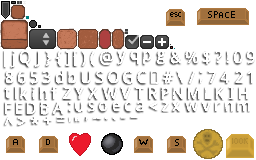
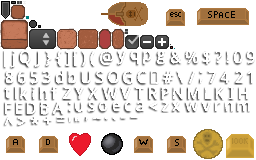
ai has multiple targets and doesnt seem to crash

Changed region(s): [[0.375, 0.0, 0.5938, 0.1875]]

diff --git a/core/src/com/mygdx/game/Entitys/NPCShip.java b/core/src/com/mygdx/game/Entitys/NPCShip.java
@@ -9,10 +9,12 @@ import com.badlogic.gdx.utils.JsonValue;
 import com.mygdx.game.AI.EnemyState;
 import com.mygdx.game.Components.*;
 import com.mygdx.game.Managers.GameManager;
+import com.mygdx.game.Physics.CollisionCallBack;
+import com.mygdx.game.Physics.CollisionInfo;
 import com.mygdx.utils.QueueFIFO;
 import com.mygdx.utils.Utilities;
 
-public class NPCShip extends Ship {
+public class NPCShip extends Ship implements CollisionCallBack {
     public StateMachine<NPCShip, EnemyState> stateMachine;
     private static JsonValue AISettings;
     private final QueueFIFO<Vector2> path;
@@ -38,6 +40,7 @@ public class NPCShip extends Ship {
 
 
         RigidBody rb = getComponent(RigidBody.class);
+        // rb.setCallback(this);
 
         JsonValue starting = GameManager.getSettings().get("starting");
 
@@ -55,23 +58,7 @@ public class NPCShip extends Ship {
         super.update();
         stateMachine.update();
 
-        // follows path
-        /*if (!path.isEmpty()) {
-            Vector2 goTo = Utilities.tilesToDistance(path.peek()); // goto offset in world space
-            goTo.add(getPosition()); // translated to player pos
-            float radius = GameManager.getSettings().get("starting").getFloat("attackRange_tiles") + 0.5f; // in tile space
-            // radius = 1;
-            radius = Utilities.tilesToDistance(radius); // in world space
-            boolean proximity = Utilities.checkProximity(goTo, getPosition(), radius);
-
-            // has reached target point so remove point
-            if (proximity) {
-                path.pop();
-            } else {
-                RigidBody rb = getComponent(RigidBody.class);
-                rb.setVelocity(path.peek().cpy().scl(GameManager.getSettings().get("starting").getFloat("playerSpeed")));
-            }
-        }*/
+        // System.out.println(getComponent(Pirate.class).targetCount());
     }
 
     public void goToTarget() {
@@ -104,5 +91,56 @@ public class NPCShip extends Ship {
 
     public void wander() {
 
+    }
+
+    @Override
+    public void BeginContact(CollisionInfo info) {
+
+    }
+
+    @Override
+    public void EndContact(CollisionInfo info) {
+
+    }
+
+    /**
+     * if the agro fixture hit a ship set it as the target
+     *
+     * @param info the collision info
+     */
+    @Override
+    public void EnterTrigger(CollisionInfo info) {
+        if(!(info.a instanceof Ship)) {
+            return;
+        }
+        Ship other = (Ship) info.a;
+        if (other.getComponent(Pirate.class).getFaction().getName() == getComponent(Pirate.class).getFaction().getName()) {
+           // is the same faction
+           return;
+        }
+        // add the new collision as a new target
+        Pirate pirate = getComponent(Pirate.class);
+        pirate.addTarget(other);
+    }
+
+    /**
+     * Will set the target to null
+     *
+     * @param info collision info
+     */
+    @Override
+    public void ExitTrigger(CollisionInfo info) {
+        if(!(info.a instanceof Ship)) {
+            return;
+        }
+        Pirate pirate = getComponent(Pirate.class);
+        Ship o = (Ship) info.a;
+        // remove the object from the targets list
+        for (Ship targ : pirate.getTargets()) {
+            if(targ == o) {
+                pirate.getTargets().remove(targ);
+                break;
+            }
+        }
     }
 }

diff --git a/core/src/com/mygdx/game/Components/Pirate.java b/core/src/com/mygdx/game/Components/Pirate.java
@@ -5,6 +5,7 @@ import com.badlogic.gdx.utils.JsonValue;
 import com.mygdx.game.Entitys.Ship;
 import com.mygdx.game.Faction;
 import com.mygdx.game.Managers.GameManager;
+import com.mygdx.utils.QueueFIFO;
 
 public class Pirate extends Component {
     private int factionId;
@@ -17,11 +18,11 @@ public class Pirate extends Component {
     /**
      * The enemy that is being targeted not used for player
      */
-    private Ship target;
+    private QueueFIFO<Ship> targets;
 
     public Pirate() {
         super();
-        target = null;
+        targets = new QueueFIFO<>();
         type = ComponentType.Pirate;
         plunder = GameManager.getSettings().get("starting").getInt("plunder");
         factionId = 1;
@@ -32,8 +33,8 @@ public class Pirate extends Component {
         ammo = starting.getInt("ammo");
     }
 
-    public void setTarget(Ship target) {
-        this.target = target;
+    public void addTarget(Ship target) {
+        targets.add(target);
     }
 
     public int getPlunder() {
@@ -81,10 +82,10 @@ public class Pirate extends Component {
      * target will be null if not in agro range
      */
     public boolean canAttack() {
-        if (target != null) {
+        if (targets.peek() != null) {
             final Ship p = (Ship) parent;
             final Vector2 pos = p.getPosition();
-            final float dst = pos.dst(target.getPosition());
+            final float dst = pos.dst(targets.peek().getPosition());
             // withing attack range
             return dst < Ship.getAttackRange();
         }
@@ -96,18 +97,21 @@ public class Pirate extends Component {
      * target will be null if not in agro range
      */
     public boolean isAgro() {
-        if (target != null) {
+        if (targets.peek() != null) {
             final Ship p = (Ship) parent;
             final Vector2 pos = p.getPosition();
-            final float dst = pos.dst(target.getPosition());
-            // out of attack range
+            final float dst = pos.dst(targets.peek().getPosition());
+            // out of attack range but in agro range
             return dst >= Ship.getAttackRange();
         }
         return false;
     }
 
     public Ship getTarget() {
-        return target;
+        return targets.peek();
+    }
+    public void removeTarget() {
+        targets.pop();
     }
 
     public boolean isAlive() {
@@ -125,5 +129,13 @@ public class Pirate extends Component {
 
     public int getAmmo() {
         return ammo;
+    }
+
+    public int targetCount() {
+        return targets.size();
+    }
+
+    public QueueFIFO<Ship> getTargets() {
+        return targets;
     }
 }

diff --git a/core/src/com/mygdx/game/Entitys/Ship.java b/core/src/com/mygdx/game/Entitys/Ship.java
@@ -44,10 +44,11 @@ public class Ship extends Entity implements CollisionCallBack {
         t.setPosition(800, 800);
         Renderable r = new Renderable(3, "white-up", RenderLayer.Transparent);
         RigidBody rb = new RigidBody(PhysicsBodyType.Dynamic, r, t);
+        rb.setCallback(this);
 
         Pirate p = new Pirate();
 
-        rb.setCallback(this);
+        // rb.setCallback(this);
 
         addComponents(t, r, rb, p);
     }
@@ -118,7 +119,6 @@ public class Ship extends Entity implements CollisionCallBack {
         return getComponent(Transform.class).getPosition().cpy();
     }
 
-
     @Override
     public void BeginContact(CollisionInfo info) {
 
@@ -129,42 +129,17 @@ public class Ship extends Entity implements CollisionCallBack {
 
     }
 
-    /**
-     * if the agro fixture hit a ship set it as the target
-     *
-     * @param info the collision info
-     */
     @Override
     public void EnterTrigger(CollisionInfo info) {
-        if (info.fA.isSensor() || !info.fB.isSensor() || this != info.a) {
-            return;
-            // throw new RuntimeException("error in triggers");
-        }
-
-        final Pirate p = info.b.getComponent(Pirate.class);
-        final String data = (String) info.fB.getUserData();
-
-        if (info.a instanceof Ship) {
-            if (Objects.equals(data, "agro")) {
-                if (Objects.equals(info.a.getComponent(Pirate.class).getFaction().getName(), p.getFaction().getName())) {
-                    return;
-                }
-                p.setTarget((Ship) info.a);
-            }
+        if(this instanceof Player && !(info.b instanceof Player)) {
+            ((CollisionCallBack) info.b).EnterTrigger(info);
         }
     }
 
-    /**
-     * Will set the target to null
-     *
-     * @param info collision info
-     */
     @Override
     public void ExitTrigger(CollisionInfo info) {
-        if (info.b instanceof Player) {
-            return;
+        if(this instanceof Player && !(info.b instanceof Player)) {
+            ((CollisionCallBack) info.b).ExitTrigger(info);
         }
-        final Pirate p = info.b.getComponent(Pirate.class);
-        p.setTarget(null);
     }
 }

diff --git a/core/src/com/mygdx/game/AI/EnemyState.java b/core/src/com/mygdx/game/AI/EnemyState.java
@@ -20,7 +20,7 @@ public enum EnemyState implements State<NPCShip> {
         @Override
         public void update(NPCShip e) {
             super.update(e);
-            System.out.println("WANDER");
+            //System.out.println("WANDER");
         }
     },
     /**
@@ -36,7 +36,7 @@ public enum EnemyState implements State<NPCShip> {
         @Override
         public void update(NPCShip e) {
             super.update(e);
-            System.out.println("PURSUE");
+            //System.out.println("PURSUE");
         }
     },
     /**
@@ -60,7 +60,7 @@ public enum EnemyState implements State<NPCShip> {
         @Override
         public void update(NPCShip e) {
             super.update(e);
-            System.out.println("ATTACK");
+            //System.out.println("ATTACK");
         }
     };
 

diff --git a/core/src/com/mygdx/game/UI/GameScreen.java b/core/src/com/mygdx/game/UI/GameScreen.java
@@ -69,7 +69,8 @@ public class GameScreen extends Page {
         table.add(new Image(parent.skin, "key-d"));
         table.row();
         table.add(new Label("Shoot in direction of mouse", parent.skin));
-        table.add(new Image(parent.skin, "space"));
+        //table.add(new Image(parent.skin, "space"));
+        table.add(new Image(parent.skin, "mouse"));
         table.row();
         table.add(new Label("Quit", parent.skin)).left();
         table.add(new Image(parent.skin, "key-esc"));

diff --git a/core/src/com/mygdx/utils/Constants.java b/core/src/com/mygdx/utils/Constants.java
@@ -53,7 +53,7 @@ public final class Constants {
     public static Vector2 HALF_DIMENSIONS;
     public static String VIEWPORT_TITLE;
     public static float PHYSICS_TIME_STEP;
-    public static final float ZOOM = 2.25f;
+    public static final float ZOOM = 0.75f;
     public static final boolean VSYNC = true;
     public static final float BUILDING_SCALE = 1.5f;
 

diff --git a/core/src/com/mygdx/utils/QueueFIFO.java b/core/src/com/mygdx/utils/QueueFIFO.java
@@ -66,7 +66,6 @@ public class QueueFIFO<T> implements Queue<T> {
         if (isEmpty()) {
             return false;
         }
-        topIndex--;
         int i = data.indexOf(o);
         if (i == -1) {
             return false;

diff --git a/core/src/com/mygdx/game/Managers/GameManager.java b/core/src/com/mygdx/game/Managers/GameManager.java
@@ -71,6 +71,8 @@ public final class GameManager {
                 // CreateNPCShip(i + 1);
             }
         }
+        CreateNPCShip(2);
+        CreateNPCShip(3);
 
     }
 
